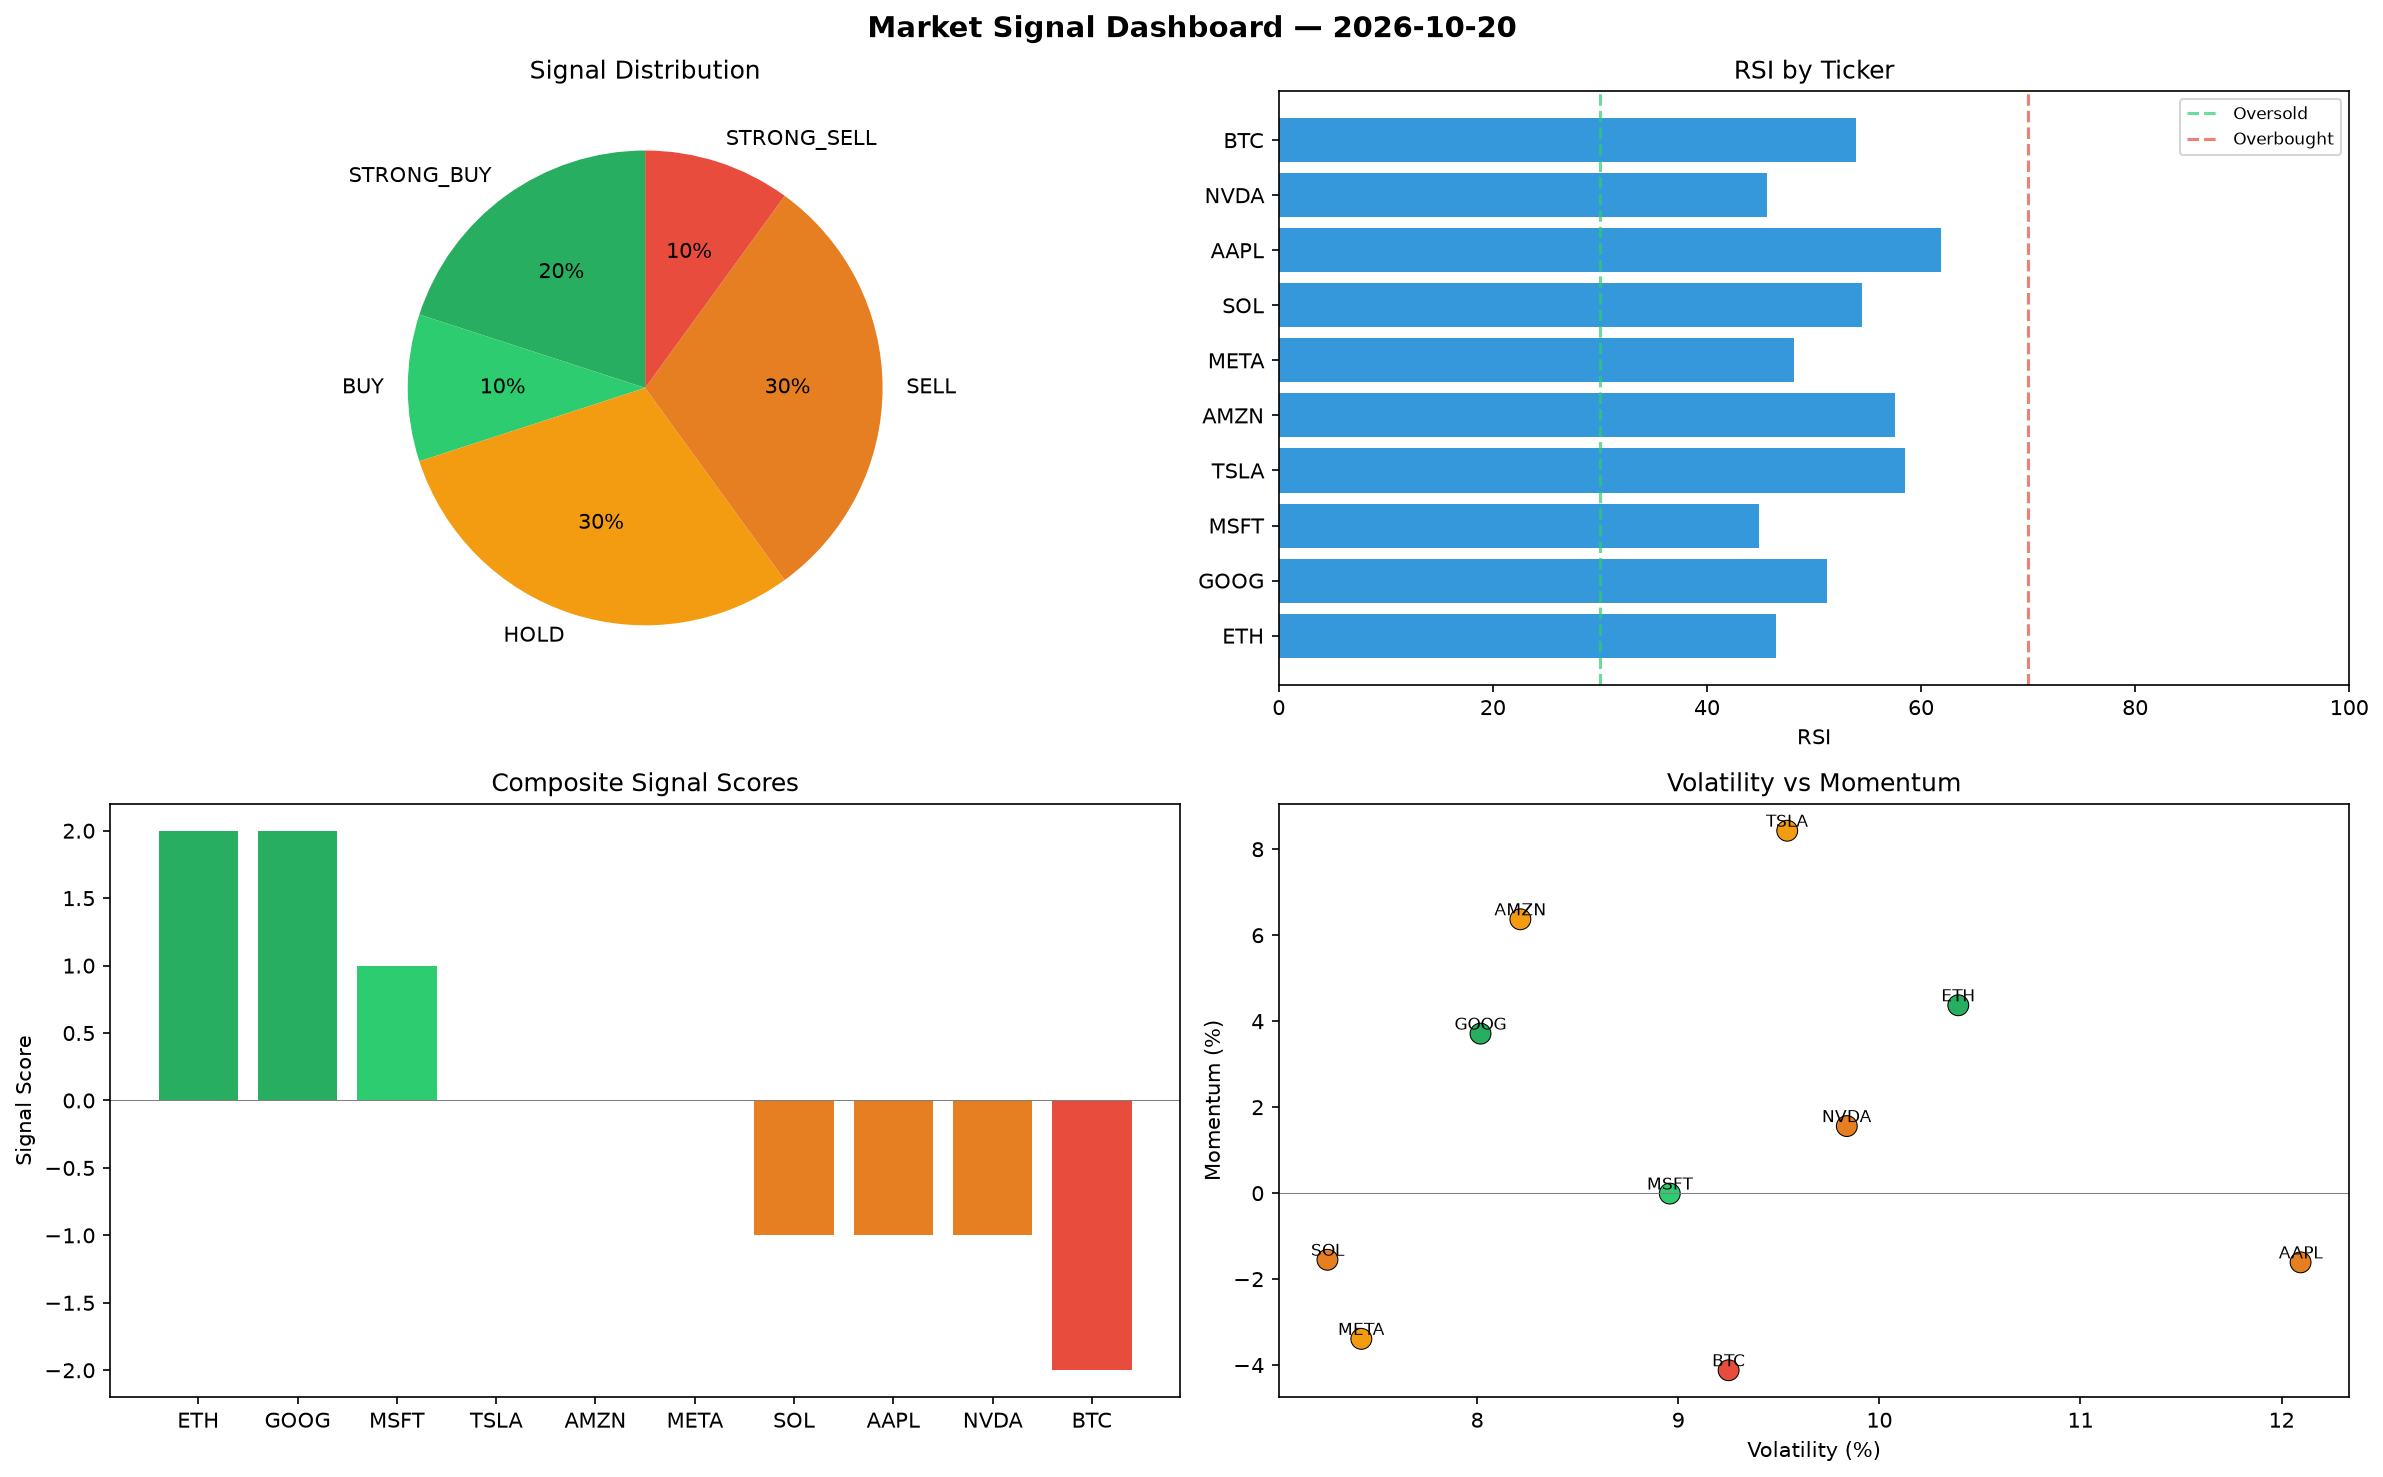
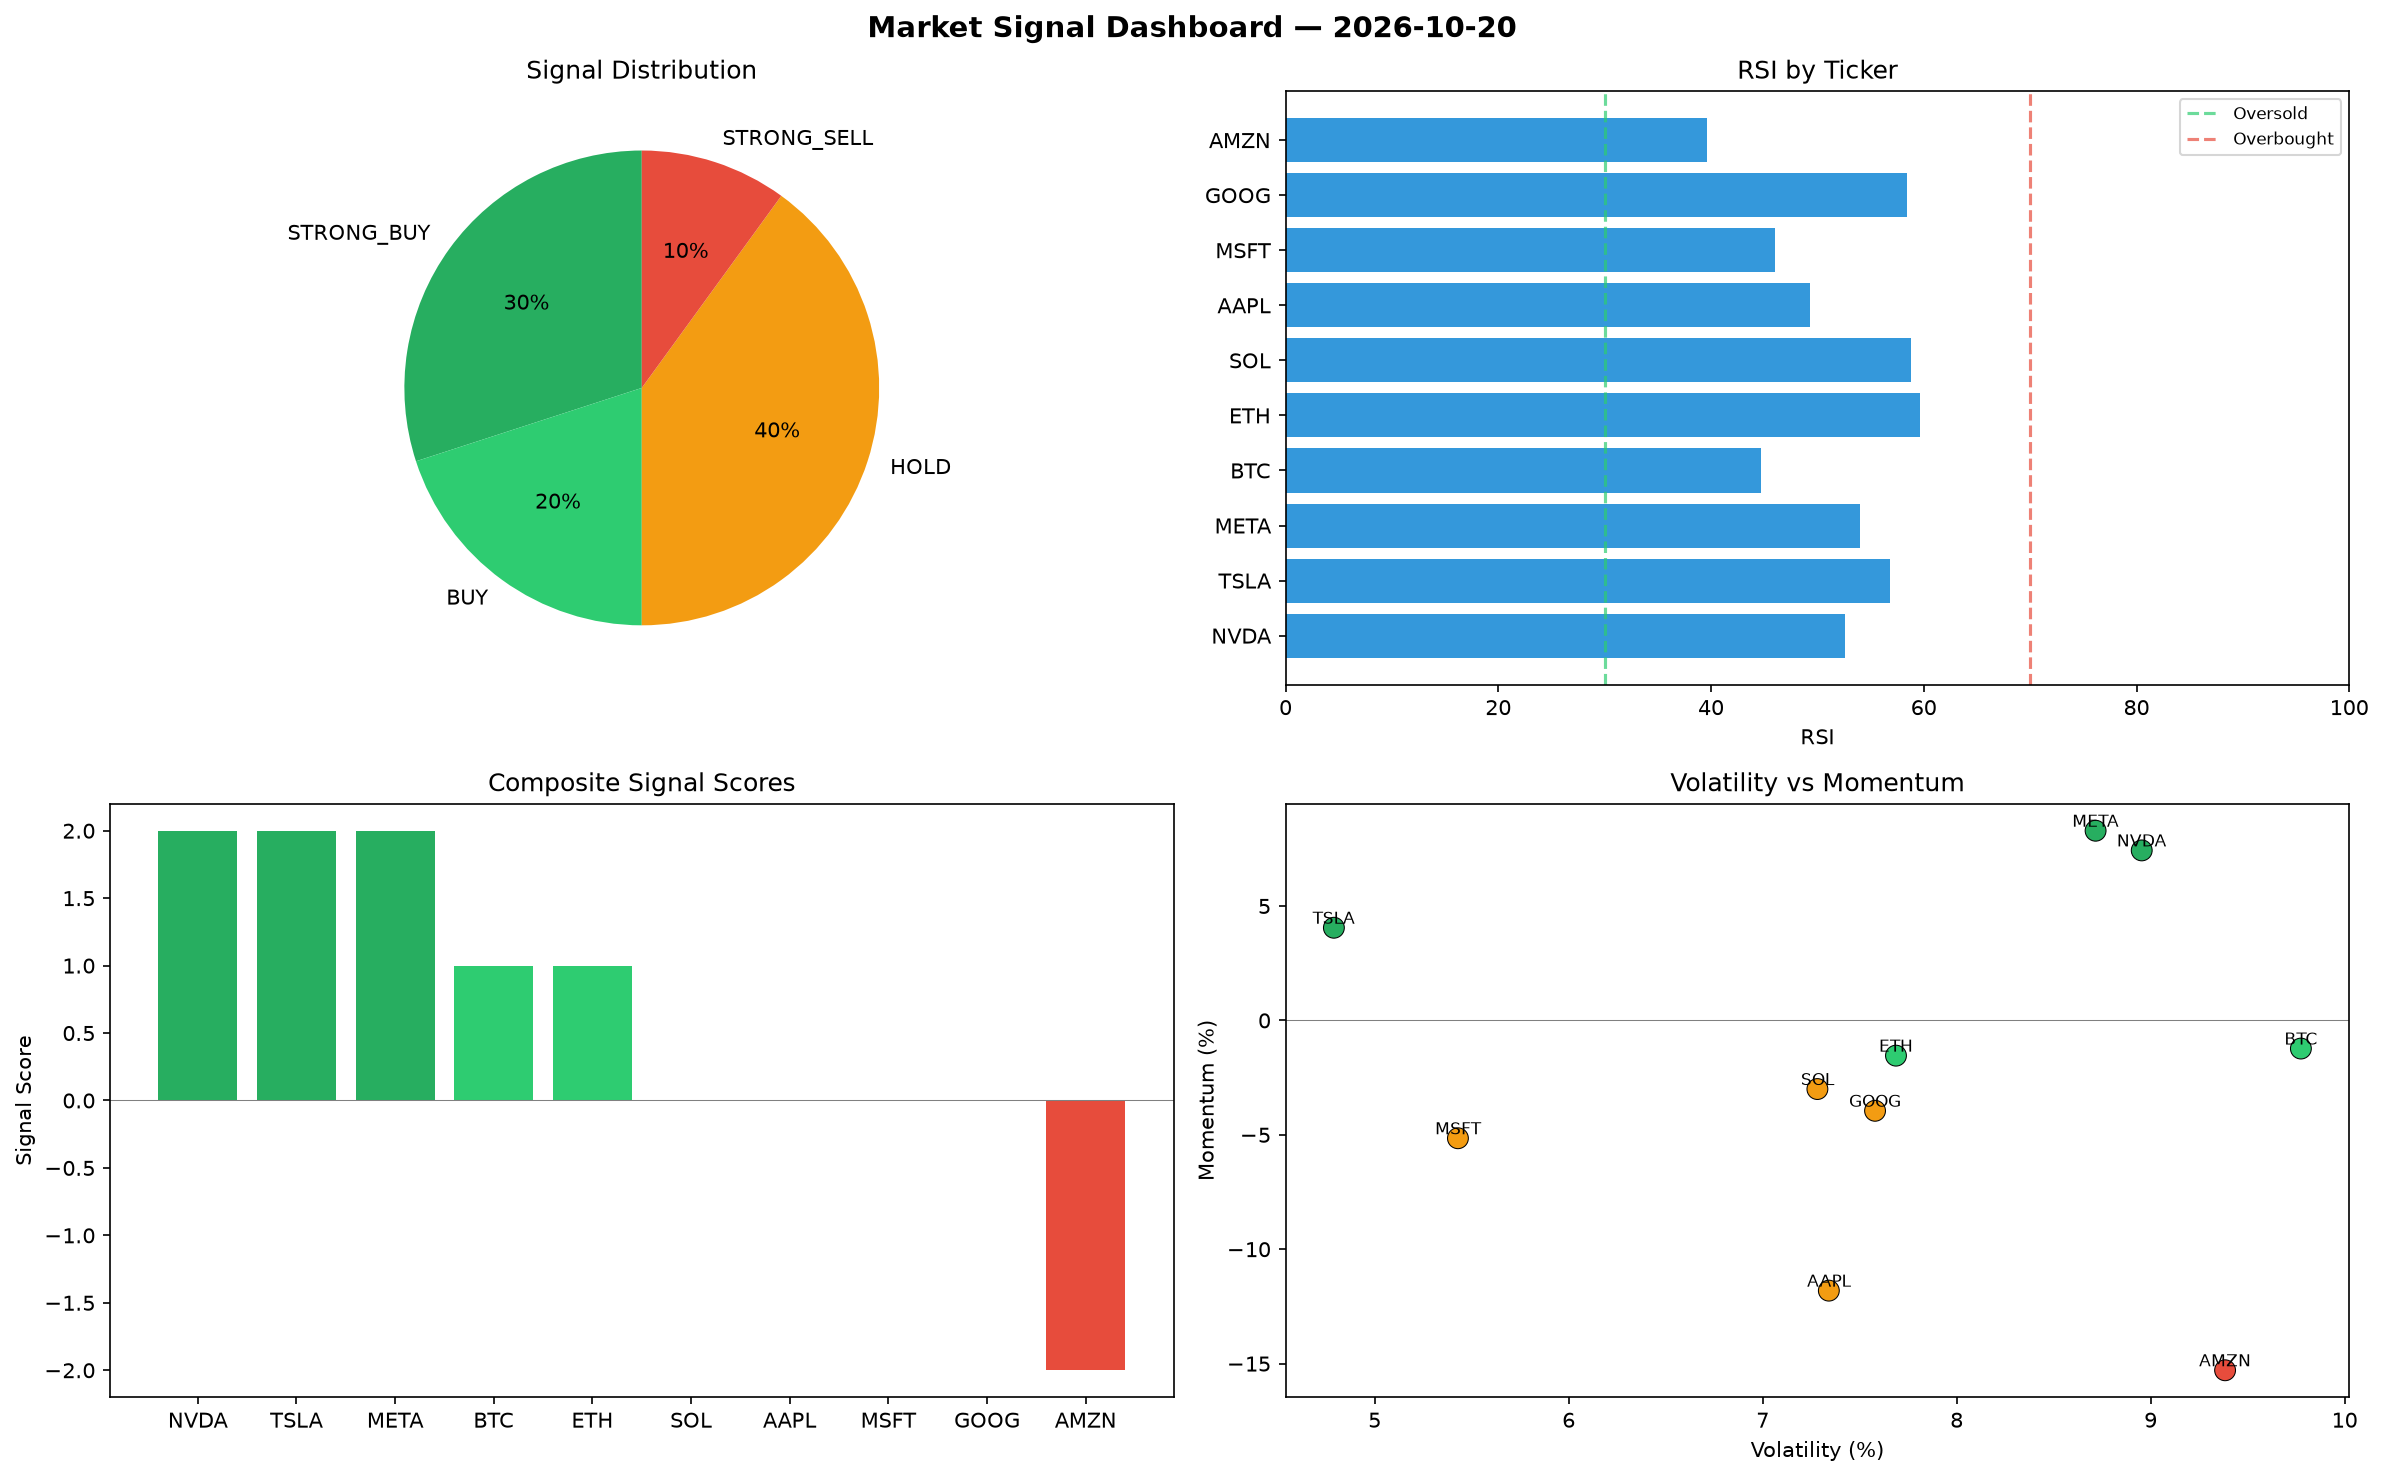
automated-bots: market signals 2026-10-20T18:36

diff --git a/logs/2026-10-20.md b/logs/2026-10-20.md
@@ -1,6 +1,6 @@
 # Market Signal Report — 2026-10-20
 
-**Run ID:** `1f68c26341` | **Buy:** 3 | **Sell:** 4 | **Hold:** 3
+**Run ID:** `657de66a4f` | **Buy:** 5 | **Sell:** 1 | **Hold:** 4
 
 ![Dashboard](2026-10-20_dashboard.png)
 
@@ -8,28 +8,28 @@
 
 | Ticker | Price | Signal | Score | RSI | Momentum | Confidence |
 |--------|-------|--------|-------|-----|----------|------------|
-| ETH | $2102.73 | **STRONG_BUY** | 2 | 46.42 | 0.0437 | 0.5 |
-| GOOG | $285.97 | **STRONG_BUY** | 2 | 51.21 | 0.0371 | 0.5 |
-| MSFT | $2391.55 | **BUY** | 1 | 44.86 | -0.0001 | 0.25 |
-| TSLA | $3408.22 | **HOLD** | 0 | 58.48 | 0.0843 | 0.0 |
-| AMZN | $2399.68 | **HOLD** | 0 | 57.56 | 0.0637 | 0.0 |
-| META | $1329.77 | **HOLD** | 0 | 48.15 | -0.0339 | 0.0 |
-| SOL | $2183.86 | **SELL** | -1 | 54.47 | -0.0155 | 0.25 |
-| AAPL | $4641.18 | **SELL** | -1 | 61.83 | -0.0161 | 0.25 |
-| NVDA | $4795.68 | **SELL** | -1 | 45.63 | 0.0156 | 0.25 |
-| BTC | $2162.61 | **STRONG_SELL** | -2 | 53.96 | -0.0412 | 0.5 |
+| NVDA | $2913.28 | **STRONG_BUY** | 2 | 52.58 | 0.0743 | 0.5 |
+| TSLA | $502.66 | **STRONG_BUY** | 2 | 56.8 | 0.0405 | 0.5 |
+| META | $3146.65 | **STRONG_BUY** | 2 | 54.0 | 0.0829 | 0.5 |
+| BTC | $3498.23 | **BUY** | 1 | 44.66 | -0.0123 | 0.25 |
+| ETH | $937.92 | **BUY** | 1 | 59.6 | -0.0154 | 0.25 |
+| SOL | $3610.74 | **HOLD** | 0 | 58.77 | -0.03 | 0.0 |
+| AAPL | $1222.24 | **HOLD** | 0 | 49.33 | -0.1181 | 0.0 |
+| MSFT | $363.49 | **HOLD** | 0 | 45.98 | -0.0515 | 0.0 |
+| GOOG | $487.86 | **HOLD** | 0 | 58.47 | -0.0395 | 0.0 |
+| AMZN | $3093.13 | **STRONG_SELL** | -2 | 39.62 | -0.1529 | 0.5 |
 
 ## Delta vs Yesterday
 
 | Ticker | Today | Yesterday | Price Change | Signal Changed |
 |--------|-------|-----------|-------------|----------------|
-| ETH | STRONG_BUY | HOLD | 📈 652.94% | ⚠ YES |
-| GOOG | STRONG_BUY | BUY | 📉 -94.21% | ⚠ YES |
-| MSFT | BUY | STRONG_BUY | 📉 -43.58% | ⚠ YES |
-| TSLA | HOLD | HOLD | 📈 133.66% | — |
-| AMZN | HOLD | STRONG_SELL | 📈 2373.13% | ⚠ YES |
-| META | HOLD | STRONG_SELL | 📉 -19.14% | ⚠ YES |
-| SOL | SELL | SELL | 📈 548.3% | — |
-| AAPL | SELL | STRONG_BUY | 📈 47.97% | ⚠ YES |
-| NVDA | SELL | STRONG_SELL | 📈 9.81% | ⚠ YES |
-| BTC | STRONG_SELL | STRONG_BUY | 📈 552.27% | ⚠ YES |
+| NVDA | STRONG_BUY | STRONG_SELL | 📉 -33.29% | ⚠ YES |
+| TSLA | STRONG_BUY | HOLD | 📉 -65.54% | ⚠ YES |
+| META | STRONG_BUY | STRONG_SELL | 📈 91.35% | ⚠ YES |
+| BTC | BUY | STRONG_BUY | 📈 955.11% | ⚠ YES |
+| ETH | BUY | HOLD | 📈 235.85% | ⚠ YES |
+| SOL | HOLD | SELL | 📈 971.88% | ⚠ YES |
+| AAPL | HOLD | STRONG_BUY | 📉 -61.03% | ⚠ YES |
+| MSFT | HOLD | STRONG_BUY | 📉 -91.42% | ⚠ YES |
+| GOOG | HOLD | BUY | 📉 -90.13% | ⚠ YES |
+| AMZN | STRONG_SELL | STRONG_SELL | 📈 3087.81% | — |
